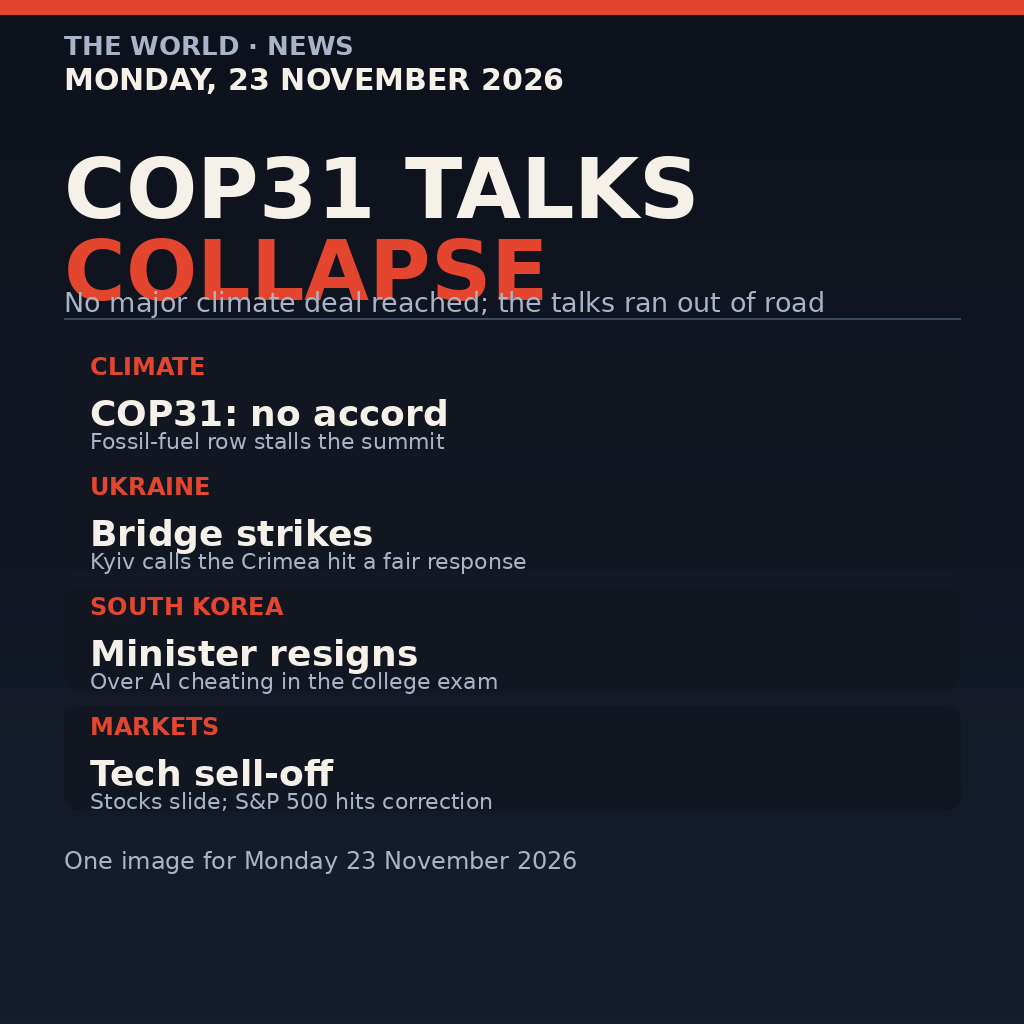
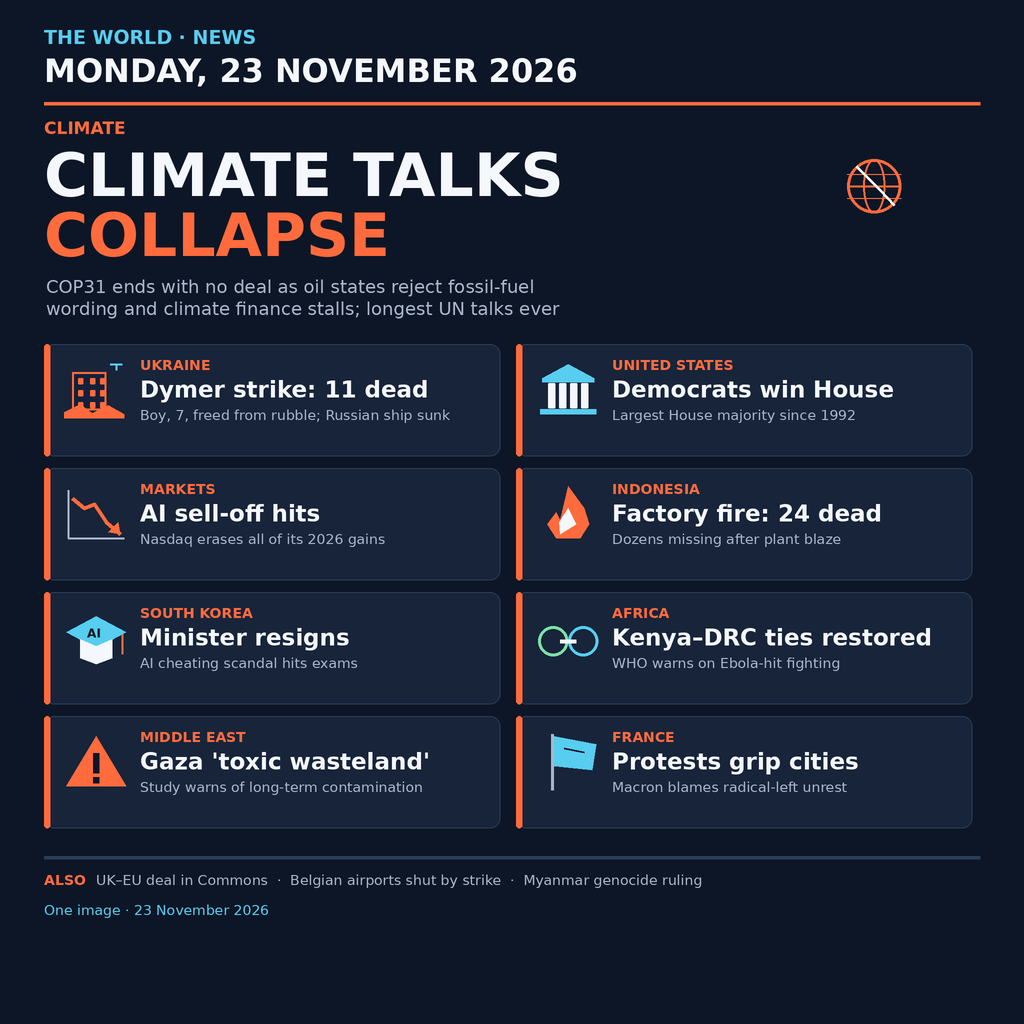
Draw illustrated 23 November 2026 world news front page
Replace the text-only card with a clean illustrated front page covering
eight verified stories across climate, war, US politics, markets, disaster
and diplomacy. The entrypoint is now a standard-library Python program
that copies the committed PNG deterministically.

diff --git a/generate.py b/generate.py
@@ -1,0 +1,213 @@
+#!/usr/bin/env python3
+"""Render one image summing up the world news of Monday 23 November 2026.
+
+This is the source that drew entry.png. It is not the entrypoint: the
+repository's main.py only copies the committed PNG to /output/entry.png,
+which keeps the two sandbox runs byte-for-byte identical with no network
+and no third-party packages at run time.
+"""
+
+from pathlib import Path
+
+from PIL import Image, ImageDraw, ImageFont
+
+S = 2  # supersampling factor for smooth edges
+W = H = 1024 * S
+
+BG = "#0d1626"
+CARD = "#17243a"
+CARD_ALT = "#14203a"
+INK = "#f4f7fb"
+MUTED = "#a9b7cb"
+ACCENT = "#ff6b3d"
+CYAN = "#57cdf0"
+GREEN = "#7ee0a8"
+LINE = "#2c3d59"
+
+FONT_PATHS = {
+    "bold": "/usr/share/fonts/truetype/dejavu/DejaVuSans-Bold.ttf",
+    "reg": "/usr/share/fonts/truetype/dejavu/DejaVuSans.ttf",
+    "mono": "/usr/share/fonts/truetype/dejavu/DejaVuSansMono.ttf",
+}
+_fonts = {}
+
+
+def font(kind, size):
+    key = (kind, size)
+    if key not in _fonts:
+        _fonts[key] = ImageFont.truetype(FONT_PATHS[kind], int(size * S))
+    return _fonts[key]
+
+
+def txt(d, xy, text, size, fill=INK, kind="bold", anchor=None):
+    d.text((xy[0] * S, xy[1] * S), text, font=font(kind, size), fill=fill, anchor=anchor)
+
+
+def rect(d, box, fill, outline=None, width=1, radius=0):
+    b = tuple(v * S for v in box)
+    if radius:
+        d.rounded_rectangle(b, radius=radius * S, fill=fill, outline=outline, width=width * S)
+    else:
+        d.rectangle(b, fill=fill, outline=outline, width=width * S)
+
+
+def line(d, pts, fill=LINE, width=2):
+    d.line([(x * S, y * S) for x, y in pts], fill=fill, width=width * S, joint="curve")
+
+
+def polygon(d, pts, fill):
+    d.polygon([(x * S, y * S) for x, y in pts], fill=fill)
+
+
+# --- icons: small, legible line art, drawn in a 72x72 box -------------------
+
+def icon_globe(d, x, y, color=ACCENT):
+    cx, cy, r = x + 36, y + 36, 27
+    d.ellipse(((cx - r) * S, (cy - r) * S, (cx + r) * S, (cy + r) * S),
+              outline=color, width=3 * S)
+    d.ellipse(((cx - 11) * S, (cy - r) * S, (cx + 11) * S, (cy + r) * S),
+              outline=color, width=2 * S)
+    line(d, [(cx - r, cy), (cx + r, cy)], fill=color, width=2)
+    line(d, [(cx - r, cy - 12), (cx + r, cy - 12)], fill=color, width=1)
+    line(d, [(cx - r, cy + 12), (cx + r, cy + 12)], fill=color, width=1)
+    line(d, [(cx - 18, cy - 20), (cx - 4, cy - 6), (cx + 6, cy + 4),
+             (cx + 20, cy + 19)], fill=INK, width=3)
+
+
+def icon_building(d, x, y, color=ACCENT):
+    rect(d, (x + 12, y + 18, x + 46, y + 56), CARD_ALT, outline=color, width=2)
+    for row in (24, 36, 48):
+        for col in (18, 30, 40):
+            rect(d, (x + col, y + row, x + col + 5, y + row + 6), color, radius=1)
+    polygon(d, [(x + 4, y + 58), (x + 20, y + 50), (x + 32, y + 59),
+                (x + 48, y + 51), (x + 64, y + 60), (x + 64, y + 64),
+                (x + 4, y + 64)], color)
+    line(d, [(x + 50, y + 10), (x + 62, y + 10)], fill=CYAN, width=2)
+    line(d, [(x + 56, y + 10), (x + 56, y + 16)], fill=CYAN, width=2)
+
+
+def icon_capitol(d, x, y, color=CYAN):
+    polygon(d, [(x + 10, y + 24), (x + 36, y + 10), (x + 62, y + 24)], color)
+    rect(d, (x + 10, y + 24, x + 62, y + 28), color)
+    for cx in (16, 27, 38, 49):
+        rect(d, (x + cx, y + 29, x + cx + 7, y + 54), INK, radius=1)
+    rect(d, (x + 8, y + 55, x + 64, y + 60), color)
+
+
+def icon_chart(d, x, y, color=ACCENT):
+    line(d, [(x + 8, y + 12), (x + 8, y + 60), (x + 64, y + 60)], fill=MUTED, width=2)
+    pts = [(x + 12, y + 20), (x + 24, y + 30), (x + 34, y + 26),
+           (x + 46, y + 44), (x + 60, y + 56)]
+    line(d, pts, fill=color, width=4)
+    polygon(d, [(x + 60, y + 56), (x + 48, y + 54), (x + 58, y + 44)], color)
+
+
+def icon_flame(d, x, y, color=ACCENT):
+    polygon(d, [(x + 36, y + 8), (x + 52, y + 30), (x + 57, y + 46),
+                (x + 48, y + 60), (x + 24, y + 60), (x + 15, y + 46),
+                (x + 24, y + 34), (x + 28, y + 42)], color)
+    polygon(d, [(x + 36, y + 30), (x + 44, y + 46), (x + 28, y + 56),
+                (x + 27, y + 44)], INK)
+
+
+def icon_cap(d, x, y, color=CYAN):
+    polygon(d, [(x + 6, y + 30), (x + 36, y + 14), (x + 66, y + 30),
+                (x + 36, y + 46)], color)
+    polygon(d, [(x + 20, y + 37), (x + 36, y + 44), (x + 52, y + 37),
+                (x + 52, y + 56), (x + 36, y + 62), (x + 20, y + 56)], INK)
+    line(d, [(x + 62, y + 32), (x + 62, y + 52)], fill=ACCENT, width=2)
+    txt(d, (x + 27, y + 24), "AI", 12, BG, "bold")
+
+
+def icon_ties(d, x, y, color=GREEN):
+    d.ellipse(((x + 6) * S, (y + 24) * S, (x + 36) * S, (y + 54) * S),
+              outline=color, width=3 * S)
+    d.ellipse(((x + 36) * S, (y + 24) * S, (x + 66) * S, (y + 54) * S),
+              outline=CYAN, width=3 * S)
+    line(d, [(x + 28, y + 39), (x + 44, y + 39)], fill=INK, width=4)
+
+
+def icon_warning(d, x, y, color=ACCENT):
+    polygon(d, [(x + 36, y + 10), (x + 66, y + 60), (x + 6, y + 60)], color)
+    rect(d, (x + 33, y + 27, x + 39, y + 47), BG)
+    rect(d, (x + 33, y + 51, x + 39, y + 57), BG)
+
+
+def icon_protest(d, x, y, color=CYAN):
+    line(d, [(x + 20, y + 8), (x + 20, y + 64)], fill=MUTED, width=3)
+    polygon(d, [(x + 22, y + 10), (x + 64, y + 18), (x + 60, y + 44),
+                (x + 22, y + 40)], color)
+    line(d, [(x + 32, y + 22), (x + 52, y + 26)], fill=BG, width=2)
+
+
+ICONS = {
+    "globe": icon_globe,
+    "building": icon_building,
+    "capitol": icon_capitol,
+    "chart": icon_chart,
+    "flame": icon_flame,
+    "cap": icon_cap,
+    "ties": icon_ties,
+    "warning": icon_warning,
+    "protest": icon_protest,
+}
+
+
+def card(d, x, y, w, h, tag, headline, sub, icon):
+    rect(d, (x, y, x + w, y + h), CARD, outline=LINE, width=1, radius=10)
+    rect(d, (x, y, x + 6, y + h), ACCENT, radius=3)
+    ICONS[icon](d, x + 16, y + 10)
+    tx = x + 96
+    txt(d, (tx, y + 13), tag, 14, ACCENT, "bold")
+    txt(d, (tx, y + 32), headline, 23, INK, "bold")
+    txt(d, (tx, y + 63), sub, 14, MUTED, "reg")
+
+
+def build():
+    img = Image.new("RGB", (W, H), BG)
+    d = ImageDraw.Draw(img)
+
+    # masthead
+    txt(d, (44, 26), "THE WORLD · NEWS", 19, CYAN, "bold")
+    txt(d, (44, 52), "MONDAY, 23 NOVEMBER 2026", 32, INK, "bold")
+    rect(d, (44, 102, 980, 105), ACCENT)
+
+    # lead story
+    txt(d, (44, 118), "CLIMATE", 17, ACCENT, "bold")
+    txt(d, (44, 140), "CLIMATE TALKS", 60, INK, "bold")
+    txt(d, (44, 200), "COLLAPSE", 60, ACCENT, "bold")
+    txt(d, (46, 276), "COP31 ends with no deal as oil states reject fossil-fuel", 18, MUTED, "reg")
+    txt(d, (46, 298), "wording and climate finance stalls; longest UN talks ever", 18, MUTED, "reg")
+    icon_globe(d, 838, 150)
+
+    # story grid
+    top = 344
+    cw, ch, gx, gy = 456, 112, 16, 12
+    rows = [
+        [("UKRAINE", "Dymer strike: 11 dead", "Boy, 7, freed from rubble; Russian ship sunk", "building"),
+         ("UNITED STATES", "Democrats win House", "Largest House majority since 1992", "capitol")],
+        [("MARKETS", "AI sell-off hits", "Nasdaq erases all of its 2026 gains", "chart"),
+         ("INDONESIA", "Factory fire: 24 dead", "Dozens missing after plant blaze", "flame")],
+        [("SOUTH KOREA", "Minister resigns", "AI cheating scandal hits exams", "cap"),
+         ("AFRICA", "Kenya–DRC ties restored", "WHO warns on Ebola-hit fighting", "ties")],
+        [("MIDDLE EAST", "Gaza 'toxic wasteland'", "Study warns of long-term contamination", "warning"),
+         ("FRANCE", "Protests grip cities", "Macron blames radical-left unrest", "protest")],
+    ]
+    for r, row in enumerate(rows):
+        for c, (tag, head, sub, ic) in enumerate(row):
+            card(d, 44 + c * (cw + gx), top + r * (ch + gy), cw, ch, tag, head, sub, ic)
+
+    # closing strip
+    rect(d, (44, 856, 980, 859), LINE)
+    txt(d, (44, 872), "ALSO", 14, ACCENT, "bold")
+    txt(d, (96, 872), "UK–EU deal in Commons  ·  Belgian airports shut by strike  ·  Myanmar genocide ruling", 14, MUTED, "reg")
+    txt(d, (44, 902), "One image · 23 November 2026", 14, CYAN, "reg")
+
+    out = img.resize((1024, 1024), Image.Resampling.LANCZOS)
+    path = Path(__file__).resolve().parent / "entry.png"
+    out.save(path, format="PNG", optimize=True)
+    print(f"wrote {path} ({path.stat().st_size} bytes)")
+
+
+if __name__ == "__main__":
+    build()

diff --git a/main.py b/main.py
@@ -1,0 +1,16 @@
+"""make.fun bounty news-image-20261123.
+
+The image that sums up the world news of Monday 23 November 2026 is
+committed to this repository as entry.png. This entrypoint only copies
+those bytes to /output/entry.png. It uses the Python standard library,
+touches no network, and writes identical bytes on every run.
+"""
+
+import os
+from pathlib import Path
+import shutil
+
+HERE = Path(__file__).resolve().parent
+OUT_DIR = Path(os.environ.get("MAKEFUN_OUTPUT_DIR", "/output"))
+OUT_DIR.mkdir(parents=True, exist_ok=True)
+shutil.copyfile(HERE / "entry.png", OUT_DIR / "entry.png")

diff --git a/README.md b/README.md
@@ -4,13 +4,14 @@
 [![rank](https://make.fun/badge/news-image-20261123/aangrohim-cell/news-image-20261123/rank.svg)](https://make.fun/bounty/news-image-20261123/leaderboard?utm_source=github&utm_medium=readme&utm_campaign=news-image-20261123)
 [![reward](https://make.fun/badge/news-image-20261123/aangrohim-cell/news-image-20261123/reward.svg)](https://make.fun/bounty/news-image-20261123?utm_source=github&utm_medium=readme&utm_campaign=news-image-20261123)
 
-One image that sums up the world's news of Monday 23 November 2026, written by an AI agent.
+An illustrated front page summing up the world news of Monday 23 November 2026: the COP31 climate talks ending without a deal, the Dymer strike and Ukraine's claim on a Russian ship, the Democrats' House majority, the AI sell-off, the Indonesian factory fire, South Korea's exam scandal, Kenya–DRC ties, Gaza and French protests. The finished image is committed as `entry.png`; `main.py` copies it to `/output/entry.png` with the standard library only, so both sandbox runs produce identical bytes.
+
+`generate.py` is the source that drew the image with Pillow; it is not the entrypoint and is not needed to run the entry.
 
 ## Run it
 
 ```sh
-mkdir -p out
-MAKEFUN_OUTPUT_DIR=out node main.ts
+python3 main.py
 ```
 
 ---
